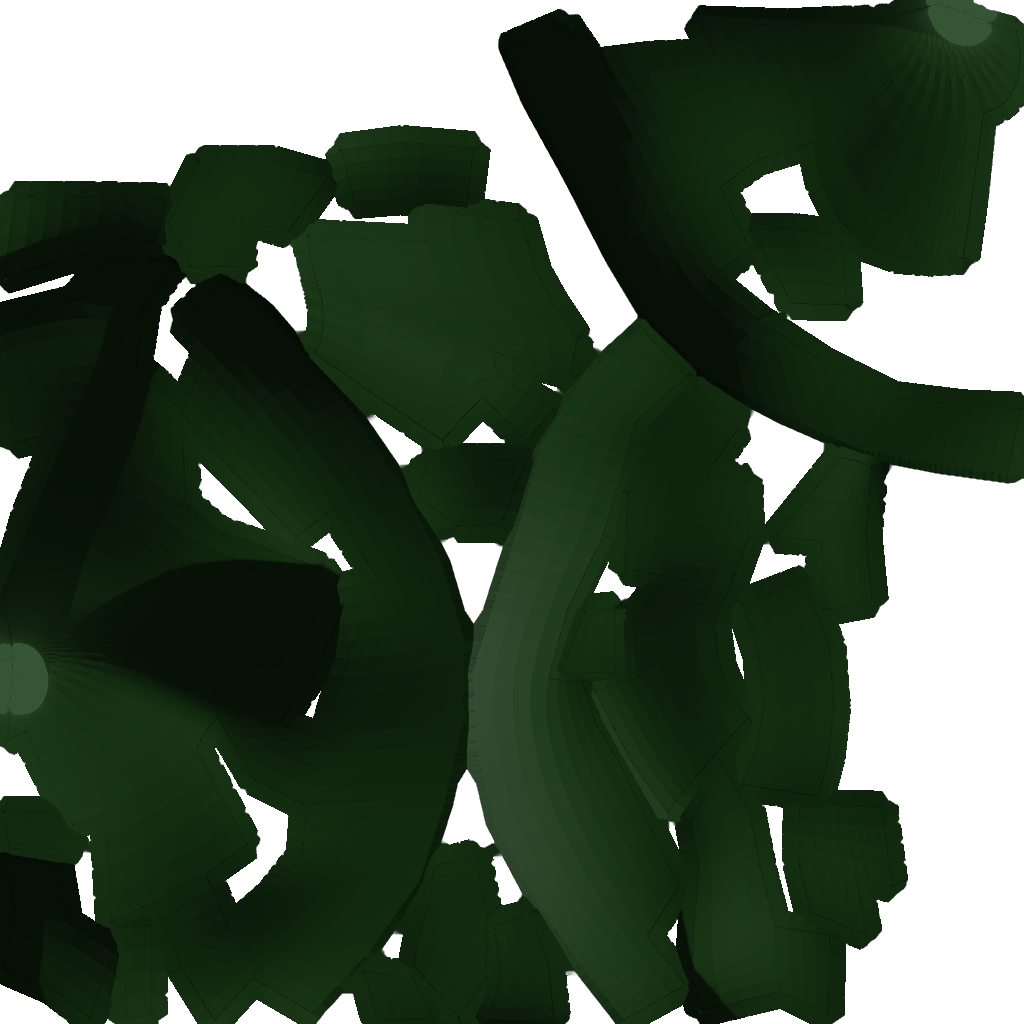
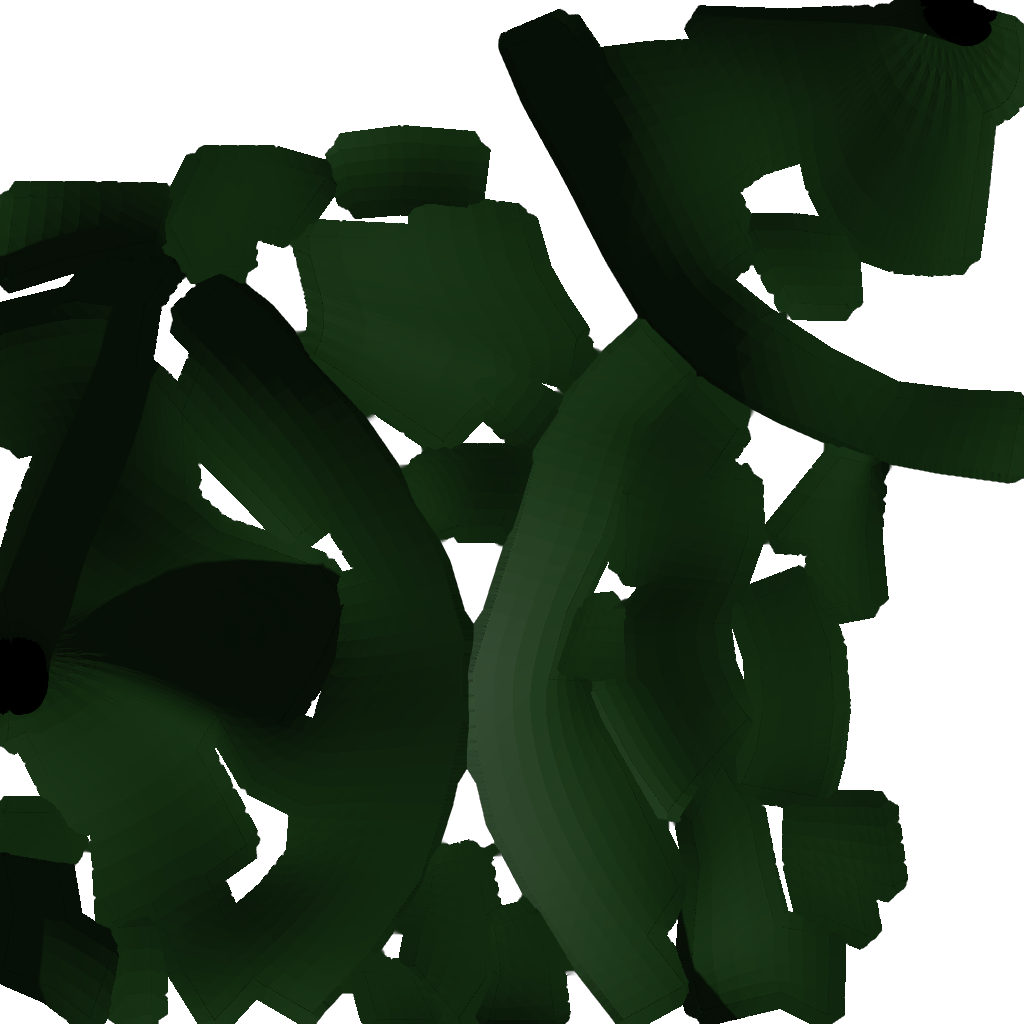
Better baking and brightness

Changed region(s): [[0.0, 0.5938, 0.0625, 0.7188], [0.875, 0.0, 0.9688, 0.0625]]

diff --git a/src/components/grass.tsx b/src/components/grass.tsx
@@ -15,7 +15,7 @@ const FADE_SPEED = 0.05; // Speed of volume fade in/out
 const STOP_DELAY = 200; // Delay before stopping sound (ms)
 
 function createBladeGeometry() {
-  const geometry = new THREE.PlaneGeometry(0.12, 1, 1, 4);
+  const geometry = new THREE.PlaneGeometry(0.2, 1, 1, 4);
   geometry.translate(0, 0.5, 0);
   return geometry;
 }
@@ -281,8 +281,8 @@ export default function Grass() {
           toneMapped={false}
           transparent={true}
           side={THREE.DoubleSide}
-          bladeHeight={4}
-          brightness={5.0}
+          bladeHeight={6}
+          brightness={30.0}
           aoMap={bakedTexture}
         />
       </mesh>
@@ -293,7 +293,7 @@ export default function Grass() {
         position={[4.324, 3.324, -0.949]}
         visible={true}
       >
-        <meshStandardMaterial map={bakedTexture} />
+        <meshStandardMaterial color={"#000000"} />
       </mesh>
     </group>
   );

diff --git a/src/components/experience.tsx b/src/components/experience.tsx
@@ -13,7 +13,7 @@ import "./grass-material";
 export default function Experience() {
   return (
     <>
-      <ambientLight color="white" intensity={4} />
+      <ambientLight color="white" intensity={10} />
       <Sky
         azimuth={0.1}
         inclination={0.6}
